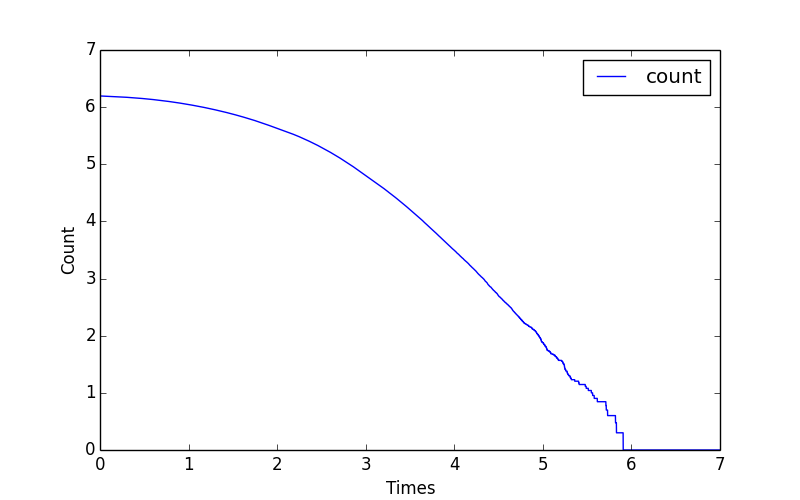
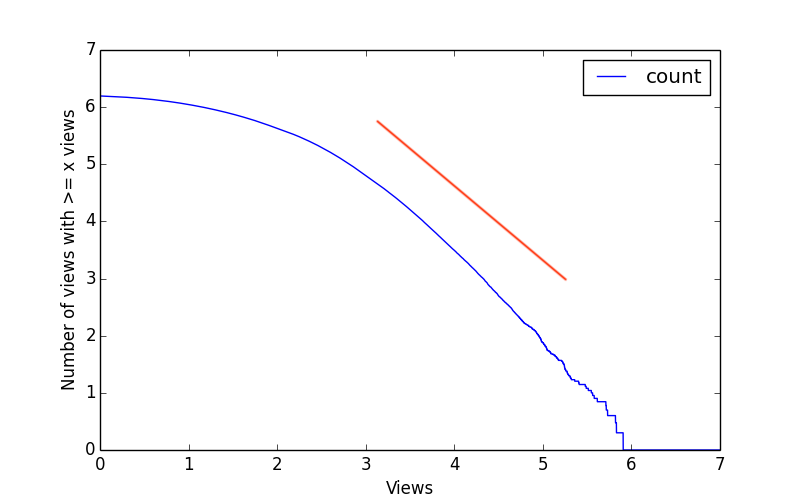
图像分析

diff --git a/code/dataAnalysis/proj2.py b/code/dataAnalysis/proj2.py
@@ -12,31 +12,31 @@ with open('dataset.txt', 'r') as f:
         line = line.split('|');
         dataProcessed = {};
         dataProcessed['url'] = line[0];
-        dataProcessed['length'] = line[1];
-        dataProcessed['views'] = line[2];
-        dataProcessed['ratings'] = line[3];
-        dataProcessed['stars'] = line[4].replace('\n','');
+
+        # 将时长字符串转换为整型，单位为秒
+        lengthOfInt = 0;
+        for l in line[1].split(':'):
+            lengthOfInt *= 60;
+            lengthOfInt += int(l);
+        dataProcessed['length'] = lengthOfInt;
+
+        dataProcessed['views'] = int(line[2]);
+        dataProcessed['ratings'] = int(line[3]);
+        dataProcessed['stars'] = int(float(line[4].replace('\n','')) * 10);
         dataset.append(dataProcessed);
 print(dataset[0]);
+
 
 # 提取特征属性length
 countForLength = np.zeros(np.power(10, powerRank));
 index = 0;
 for line in dataset:
-    length = str(line['length']);
-    lengthSplit = length.split(':');
-
-    # 将时长字符串转换为整型，单位为秒
-    lengthOfInt = 0;
-    for l in lengthSplit:
-        lengthOfInt *= 60;
-        lengthOfInt += int(l);
-
+    lengthOfInt = line['length'];
     if lengthOfInt >= np.power(10, powerRank) - 1:
         continue;
 
     # print(str(lengthOfInt) + ',' + length)
-    countForLength[lengthOfInt] += 1;
+    countForLength[lengthOfInt] += line['views'];
     if index % (len(dataset)/10) == 0:
         print("running... " + str(index / (len(dataset)/10)) + "0%");
     index += 1;

diff --git a/code/dataAnalysis/proj1.py b/code/dataAnalysis/proj1.py
@@ -2,6 +2,7 @@
 # 分析视频文件观看次数的概率分布特征
 import numpy as np;
 import matplotlib.pyplot as plt;
+import myplot;
 
 # 数据数量级
 powerRank = 7;
@@ -33,16 +34,13 @@ for i in reversed(range(0,np.power(10, powerRank) - 1)):
     viewTimes[i] = viewTimes[i] + viewTimes[i+1];
 
 x = range(0,np.power(10, powerRank));
-for i in range(0,np.power(10, powerRank)):
-    if x[i] > 0:
-        x[i] = np.log10(x[i]);
 
 y = viewTimes;
-for i in range(0,np.power(10, powerRank)):
-    if y[i] > 0:
-        y[i] = np.log10(y[i]);
 
 # 画图
+myplot.plot(x, y, label='count', xlabel='Views', ylabel='Number of views with >= x views', xAxieIsLog=True, yAxieIsLog=True);
+
+
 print("plotting...");
 plt.figure(figsize=(8,5));
 plt.plot(x, y, label='count', linewidth=1);
